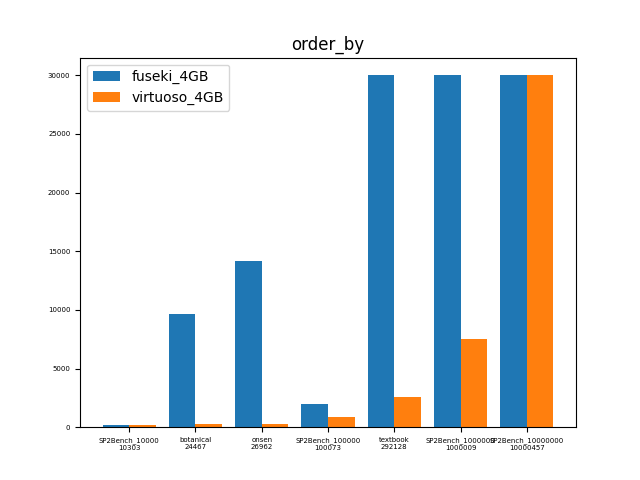
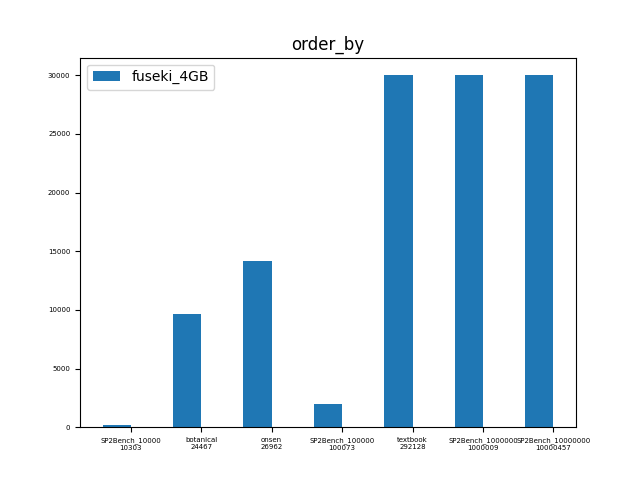
値の更新

diff --git a/apache_bench/multi_characteristic_result.py b/apache_bench/multi_characteristic_result.py
@@ -20,6 +20,8 @@ df_2 = df_2.reset_index()
 
 triple_num_label = df_1["triple_num"]
 
+print(df_1)
+
 #x軸のラベルの作成(SPARQLエンドポイントのURLのドメイン名とトリプル数)
 xlabel = np.core.defchararray.add(
     np.core.defchararray.add(
@@ -39,7 +41,7 @@ for e in df_1.columns.values[7:]: #トリプル数以降でfor文を回す
 
     fig,ax = plt.subplots()
     ax.bar(x-width_bar/2, y1, width=width_bar, label="fuseki_4GB")
-    ax.bar(x+width_bar/2, y2, width=width_bar, label="virtuoso_4GB")
+    # ax.bar(x+width_bar/2, y2, width=width_bar, label="virtuoso_4GB")
     ax.set_title(e)
     ax.set_xticks(x)
     ax.set_xticklabels(xlabel)

diff --git a/apache_bench/each_characteristic_result.py b/apache_bench/each_characteristic_result.py
@@ -7,6 +7,7 @@ import os
 file_path = "./output/return_time_from_SPARQLendpoint/"
 input_file_name = "20221016202355_mean10times_local_virtuoso_4GB"
 df = pd.read_csv(file_path + input_file_name + ".csv")
+print(df)
 #トリプル数順でソート
 df = df.sort_values('triple_num')
 #ソート後にインデックスを降り直す
@@ -26,7 +27,7 @@ xlabel = np.core.defchararray.add(
 
 for e in df.columns.values[5:]: #トリプル数以降でfor文を回す
     ms = df[e]
-    print(ms)
+    # print(ms)
     plt.bar(np.array(df.index), np.array(ms), tick_label=xlabel, align="center")
     plt.tick_params(labelsize=5)
     plt.title(e)
